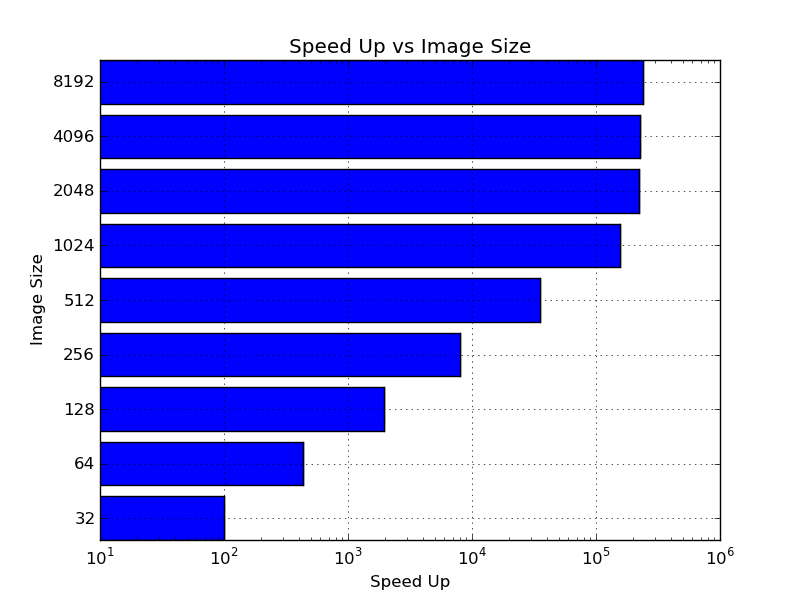
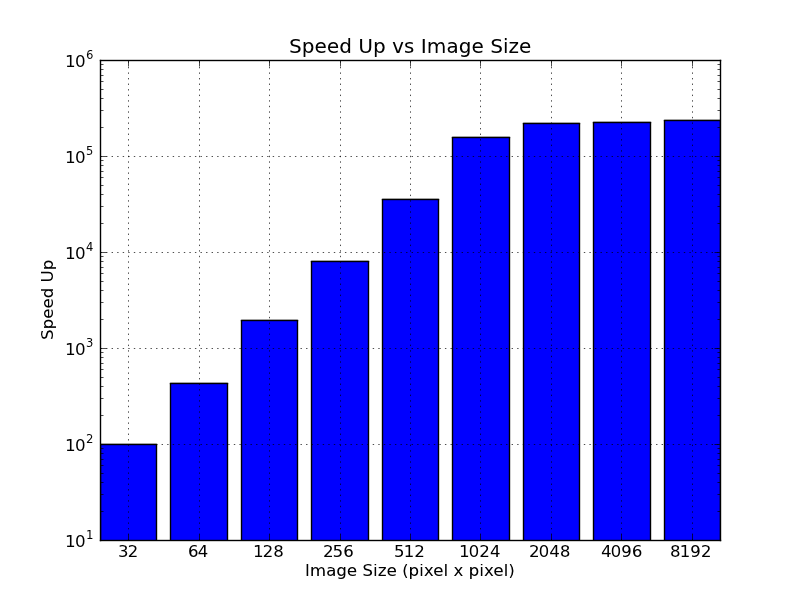
speed up plot

diff --git a/speedup.py b/speedup.py
@@ -1,0 +1,46 @@
+#!/usr/bin/env python
+
+from pylab import *
+
+time_serial = [5.379504, 
+               23.474275,
+               99.412917, 
+               382.463874, 
+               1544.600379,
+               6176.98505292,
+               24709.00347468, 
+               98837.07716172, 
+               395349.37190988]
+
+time_parallel = [0.053993,
+                 0.054018,
+                 0.050647,
+                 0.047445,
+                 0.043356,
+                 0.039274,
+                 0.110894,
+                 0.432924,
+                 1.652598]
+
+speed_up = [0,0,0,0,0,0,0,0,0]
+
+pos = arange(9) + .5
+
+index = 0
+for x in time_parallel: 
+    speed_up[index] = time_serial[index]/x
+    index += 1 
+
+print speed_up
+
+figure(1)
+bar(pos, speed_up, align='center', log='true')
+xticks(pos, ('32', '64', '128', '256', '512', '1024', '2048', '4096', '8192'))
+
+title('Speed Up vs Image Size')
+grid(True)
+xlabel('Image Size (pixel x pixel)')
+ylabel('Speed Up (log scale)')
+
+
+show()
